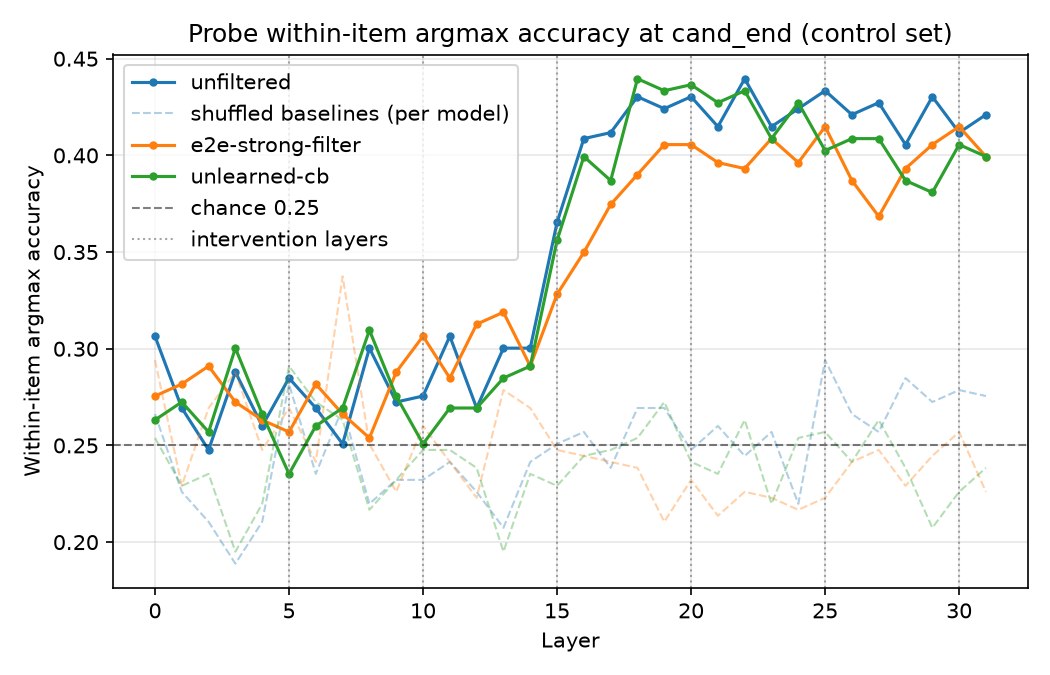
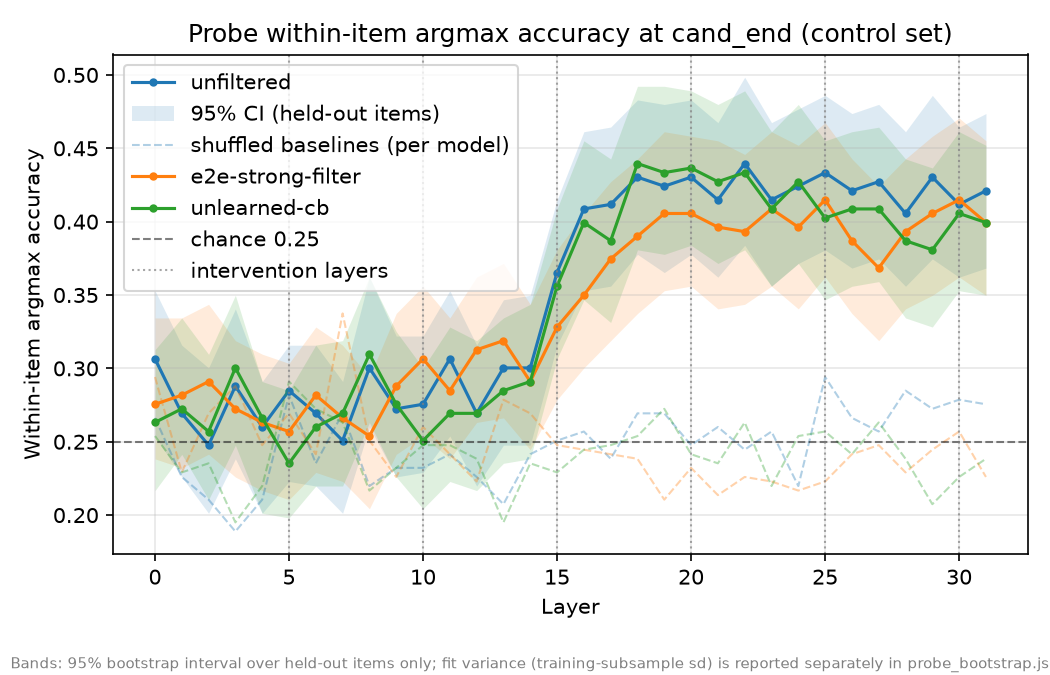
T5: probe figures with held-out item bootstrap bands

diff --git a/scripts/plot_probe_sweep.py b/scripts/plot_probe_sweep.py
@@ -17,21 +17,47 @@ Prompt (2026-09-01):
     JSON path and an output directory as arguments. Write the script only,
     do not run it.
 
+2026-09-01, appended prompt (bootstrap bands):
+    Update scripts/plot_probe_sweep.py to draw the bootstrap intervals from
+    results/probe_bootstrap.json alongside the point estimates it already
+    plots from the sweep. For each model curve, shade the region between
+    argmax4_lo and argmax4_hi on the argmax figures, and auc_lo and auc_hi
+    on the AUC figures, in that model's colour at low alpha so the three
+    bands stay distinguishable where they overlap. Take the bootstrap JSON
+    path as an additional argument, and make it optional so the script still
+    works without it. These bands are the held-out item axis only. The
+    fit-variance axis is reported separately as a standard deviation, so add
+    a note to that effect in the figure caption or as a text annotation, and
+    say in the docstring that the plotted bands therefore understate the
+    total uncertainty. Assert that the bootstrap records cover the same
+    layers, sets and models as the sweep records before plotting. Write the
+    script only, do not run it.
+
 Input: the JSON written by scripts/probe_sweep.py — a "meta" block and a
 flat "records" list with one record per (layer, set, model) carrying
 argmax4, auc, acc, chosen_C, shuf_argmax4 (within-item shuffle, read on
-argmax4), and shuf_auc (global shuffle, read on AUC).
+argmax4), and shuf_auc (global shuffle, read on AUC). Optionally also the
+JSON written by scripts/probe_bootstrap.py, whose "heldout" records carry
+the 2.5/97.5 bootstrap percentiles per metric.
+
+The shaded bands are the held-out item bootstrap axis only (plan.md T2/T5
+axis one). The fit-variance axis (training-subsample resampling, axis two)
+is reported separately in probe_bootstrap.json as a standard deviation and
+is not drawn, so the plotted bands understate the total uncertainty; each
+figure carries a caption noting this.
 
 Outputs, written to the given output directory:
     probe_argmax4_main.png      within-item argmax accuracy vs layer, main set
     probe_argmax4_control.png   same, control set
     probe_auc_main.png          held-out AUC vs layer, main set
     probe_auc_control.png       same, control set
-Each figure: one solid line per model, the matching shuffled baseline per
-model as a lighter dashed line in the same color, the analytic chance level
-as a horizontal dashed line, and the intervention layers as dotted verticals.
+Each figure: one solid line per model with (when the bootstrap JSON is
+given) a shaded 95% held-out-item band in the same colour at low alpha, the
+matching shuffled baseline per model as a lighter dashed line, the analytic
+chance level as a horizontal dashed line, and the intervention layers as
+dotted verticals.
 
-Run as: .venv/bin/python scripts/plot_probe_sweep.py results/probe_sweep.json results/
+Run as: .venv/bin/python scripts/plot_probe_sweep.py results/probe_sweep.json results/ [results/probe_bootstrap.json]
 """
 
 import argparse
@@ -50,6 +76,10 @@ METRICS = {
     "argmax4": ("shuf_argmax4", 0.25, "Within-item argmax accuracy"),
     "auc": ("shuf_auc", 0.5, "Held-out AUC"),
 }
+BAND_CAPTION = ("Bands: 95% bootstrap interval over held-out items only; "
+                "fit variance (training-subsample sd) is reported separately "
+                "in probe_bootstrap.json, so bands understate total "
+                "uncertainty.")
 
 
 def mark_intervention_layers(ax) -> None:
@@ -76,8 +106,8 @@ def collect(records, item_set: str, model: str, key: str,
     return [by_layer[layer] for layer in range(n_layers)]
 
 
-def plot_metric(records, models: list[str], item_set: str, metric: str,
-                n_layers: int, out_dir: Path) -> None:
+def plot_metric(records, boot_records, models: list[str], item_set: str,
+                metric: str, n_layers: int, out_dir: Path) -> None:
     shuf_key, chance, ylabel = METRICS[metric]
     layers = list(range(n_layers))
     fig, ax = plt.subplots(figsize=(7, 4.5))
@@ -85,6 +115,14 @@ def plot_metric(records, models: list[str], item_set: str, metric: str,
         color = f"C{i}"
         ax.plot(layers, collect(records, item_set, model, metric, n_layers),
                 marker=".", color=color, label=model)
+        if boot_records is not None:
+            lo = collect(boot_records, item_set, model, f"{metric}_lo",
+                         n_layers)
+            hi = collect(boot_records, item_set, model, f"{metric}_hi",
+                         n_layers)
+            ax.fill_between(layers, lo, hi, color=color, alpha=0.15,
+                            linewidth=0,
+                            label="95% CI (held-out items)" if i == 0 else None)
         ax.plot(layers, collect(records, item_set, model, shuf_key, n_layers),
                 linestyle="--", linewidth=1, alpha=0.35, color=color,
                 label="shuffled baselines (per model)" if i == 0 else None)
@@ -96,7 +134,11 @@ def plot_metric(records, models: list[str], item_set: str, metric: str,
     ax.set_title(f"Probe {ylabel.lower()} at cand_end ({item_set} set)")
     ax.legend()
     ax.grid(True, alpha=0.3)
-    fig.tight_layout()
+    if boot_records is not None:
+        fig.tight_layout(rect=(0, 0.05, 1, 1))
+        fig.text(0.01, 0.01, BAND_CAPTION, fontsize=7, color="gray")
+    else:
+        fig.tight_layout()
     out = out_dir / f"probe_{metric}_{item_set}.png"
     fig.savefig(out, dpi=150)
     plt.close(fig)
@@ -107,6 +149,8 @@ def main() -> None:
     ap = argparse.ArgumentParser(description=__doc__)
     ap.add_argument("json_path", type=Path)
     ap.add_argument("out_dir", type=Path)
+    ap.add_argument("bootstrap_path", type=Path, nargs="?", default=None,
+                    help="probe_bootstrap.json; omit to plot without bands")
     args = ap.parse_args()
 
     data = json.loads(args.json_path.read_text())
@@ -119,11 +163,29 @@ def main() -> None:
     print(f"shuffle seeds: within-item {meta['within_item_shuffle_seed']} "
           f"(argmax4), global {meta['global_shuffle_seed']} (AUC)")
 
+    boot_records = None
+    if args.bootstrap_path is not None:
+        boot = json.loads(args.bootstrap_path.read_text())
+        boot_records = boot["heldout"]
+        sweep_cells = {(r["layer"], r["set"], r["model"]) for r in records}
+        boot_cells = {(r["layer"], r["set"], r["model"]) for r in boot_records}
+        assert boot_cells == sweep_cells, (
+            f"bootstrap records do not cover the sweep cells: missing "
+            f"{sorted(sweep_cells - boot_cells)[:5]}, extra "
+            f"{sorted(boot_cells - sweep_cells)[:5]}"
+        )
+        print(f"loaded {len(boot_records)} bootstrap records "
+              f"({boot['meta']['n_heldout_resamples']} held-out resamples, "
+              f"seed {boot['meta']['heldout_bootstrap_seed']}); bands are "
+              f"the held-out item axis only")
+    else:
+        print("no bootstrap JSON given; plotting without bands")
+
     args.out_dir.mkdir(parents=True, exist_ok=True)
     for item_set in SETS:
         for metric in METRICS:
-            plot_metric(records, models, item_set, metric, n_layers,
-                        args.out_dir)
+            plot_metric(records, boot_records, models, item_set, metric,
+                        n_layers, args.out_dir)
 
 
 if __name__ == "__main__":
